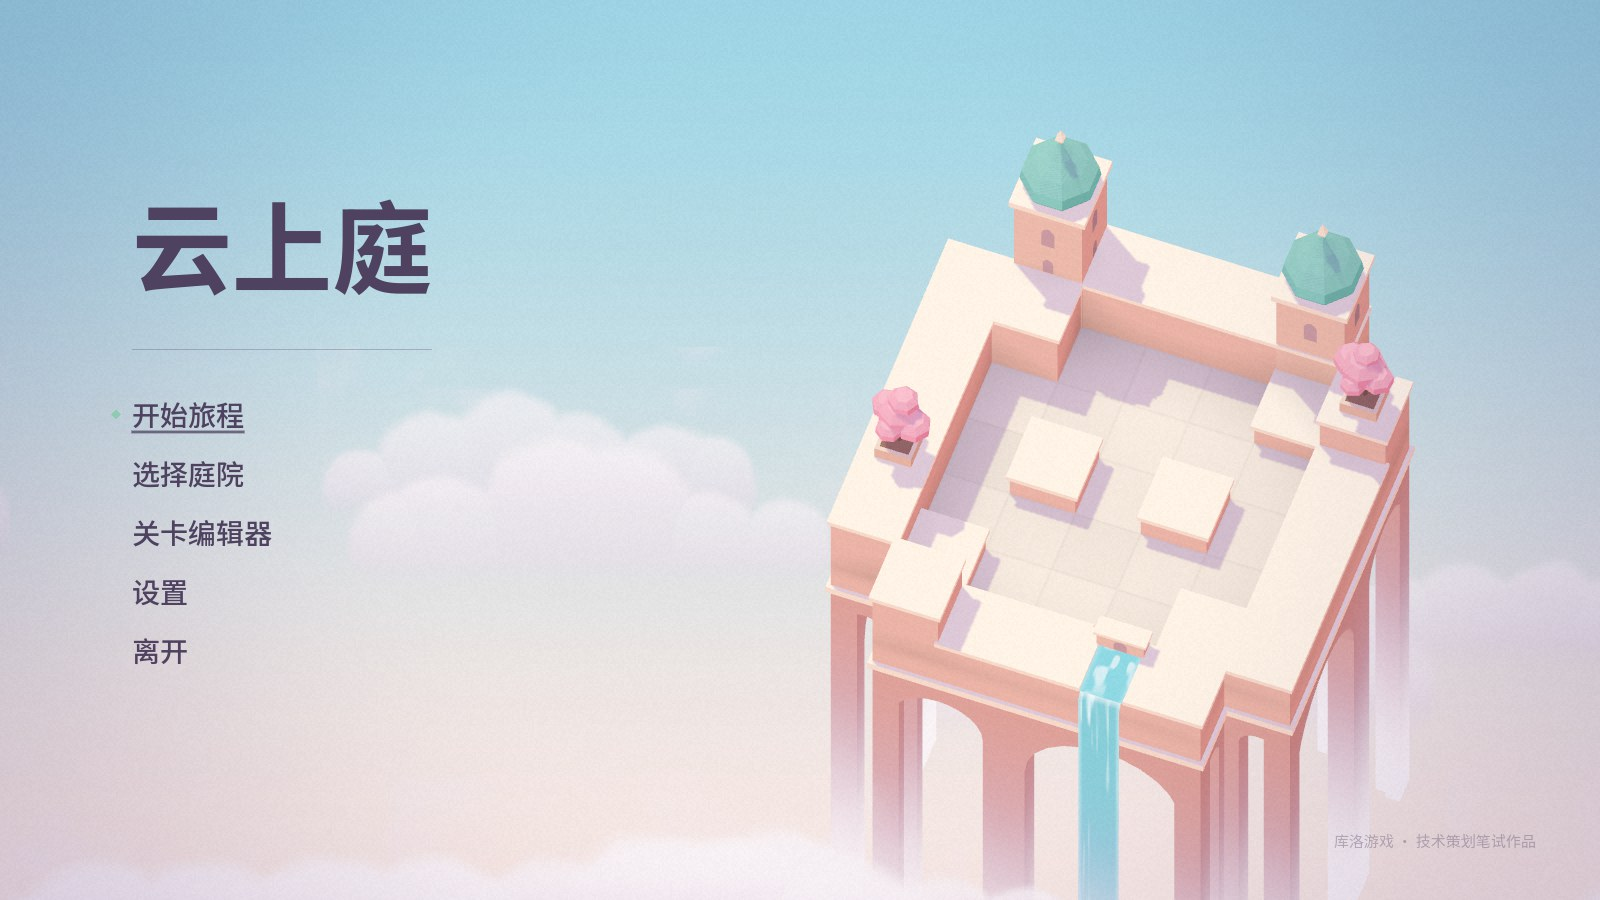
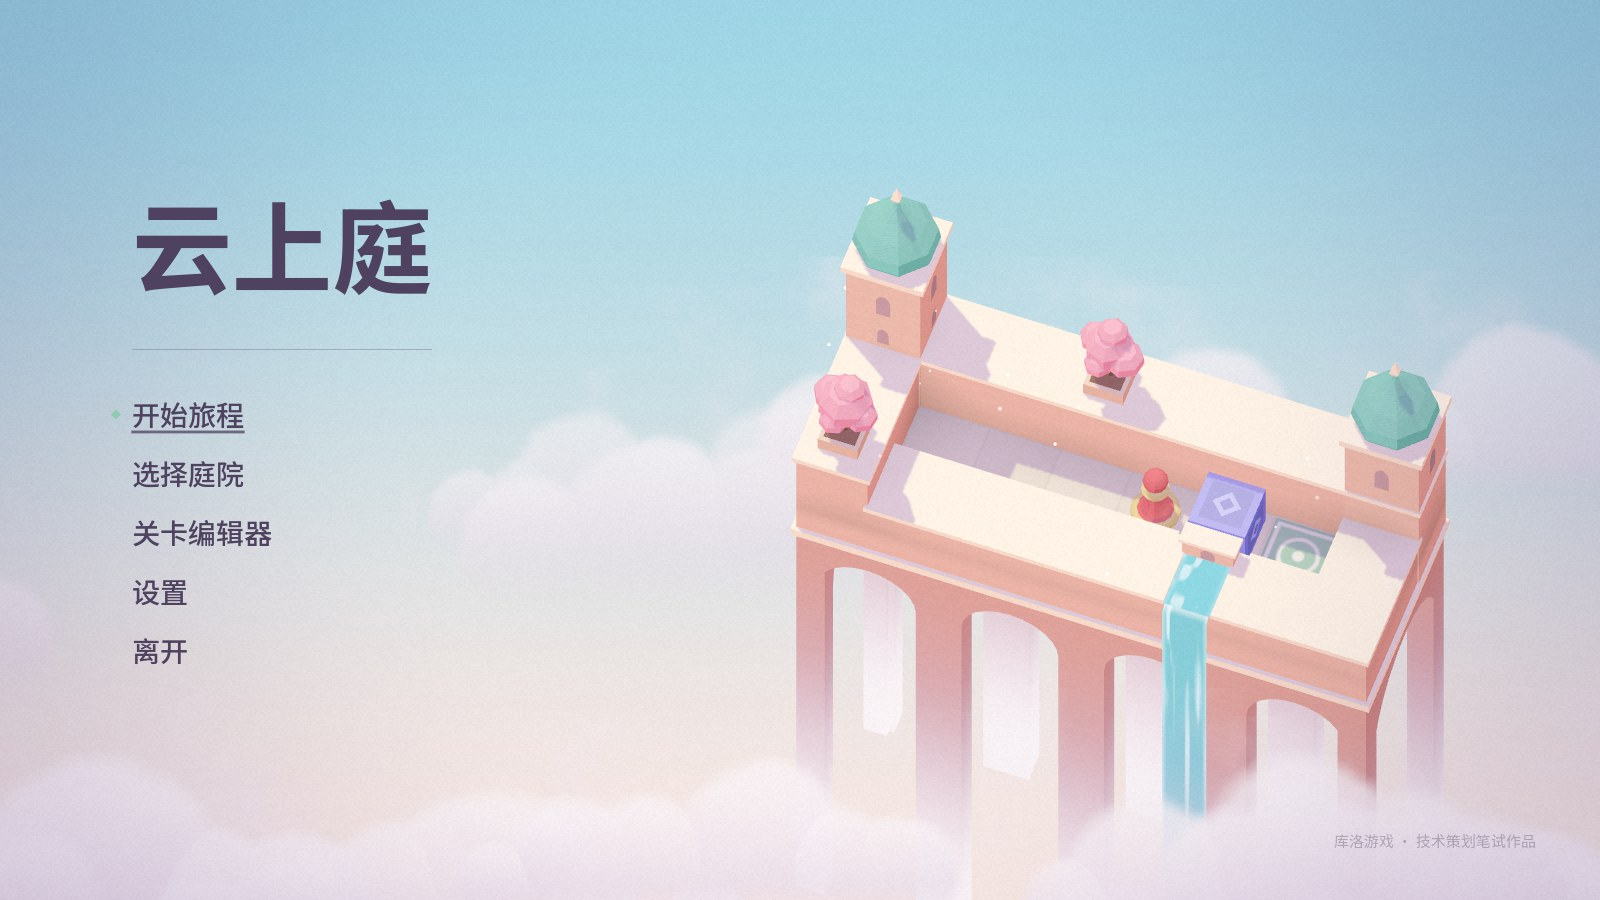
feat(title): looping push demo on the title screen
The title backdrop was an empty courtyard that only conveyed the art style.
It now shows a one-corridor courtyard where the pawn slowly pushes a stone
box cell by cell onto its mark, lights it, resets and loops, so the genre
reads at a glance.

- TitleDemo is a frame-driven node (no suspended coroutines, so nothing
  leaks on quit) and is freed when leaving the title screen.
- BoardView gains a quiet flag (no step/push/target sounds) for the demo;
  setup() resets speed and quiet for real play.

Changed region(s): [[0.4688, 0.1556, 1.0, 1.0], [0.25, 0.4356, 0.3438, 0.5289]]

diff --git a/docs/PLAN.md b/docs/PLAN.md
@@ -524,3 +524,4 @@ cloud-courtyard/
 | 设计工具 | 只有游戏内编辑器 | 新增网页关卡工作台 `tools/level_studio.py`：总览全部关卡与难度曲线、陷阱分析、浏览器试玩与最优解回放 |
 | 结算评分 | 三瓣要求打出全局最优，结算显示参考最优步数 | 按范围分档：三瓣 ≤ par + max(3, 25%)，两瓣 ≤ par + max(8, 60%)，可在关卡中手动指定；游戏中不再出现全局最优步数 |
 | 截图模式 | 读写玩家存档 | 截图与自动化测试不读写玩家存档 |
+| 标题画面 | 只有一座空庭院，看不出玩法 | 循环播放推箱演示：一条走廊，小兵把石箱一格一格推到印记上（逐帧驱动，静音、慢速） |

diff --git a/README.md b/README.md
@@ -43,6 +43,7 @@
 
 - **完整流程**
   - 标题 → 选关 → 关卡 → 通关结算 → 下一关
+  - 标题画面循环播放一段推箱演示：小兵沿走廊把石箱一格一格推到印记上，一眼就能看出玩法
   - 选关界面会实时预览所选庭院：建筑从云海中升起
   - 通关后按顺序解锁下一关，进度与最佳步数自动保存
 - **关卡内**
